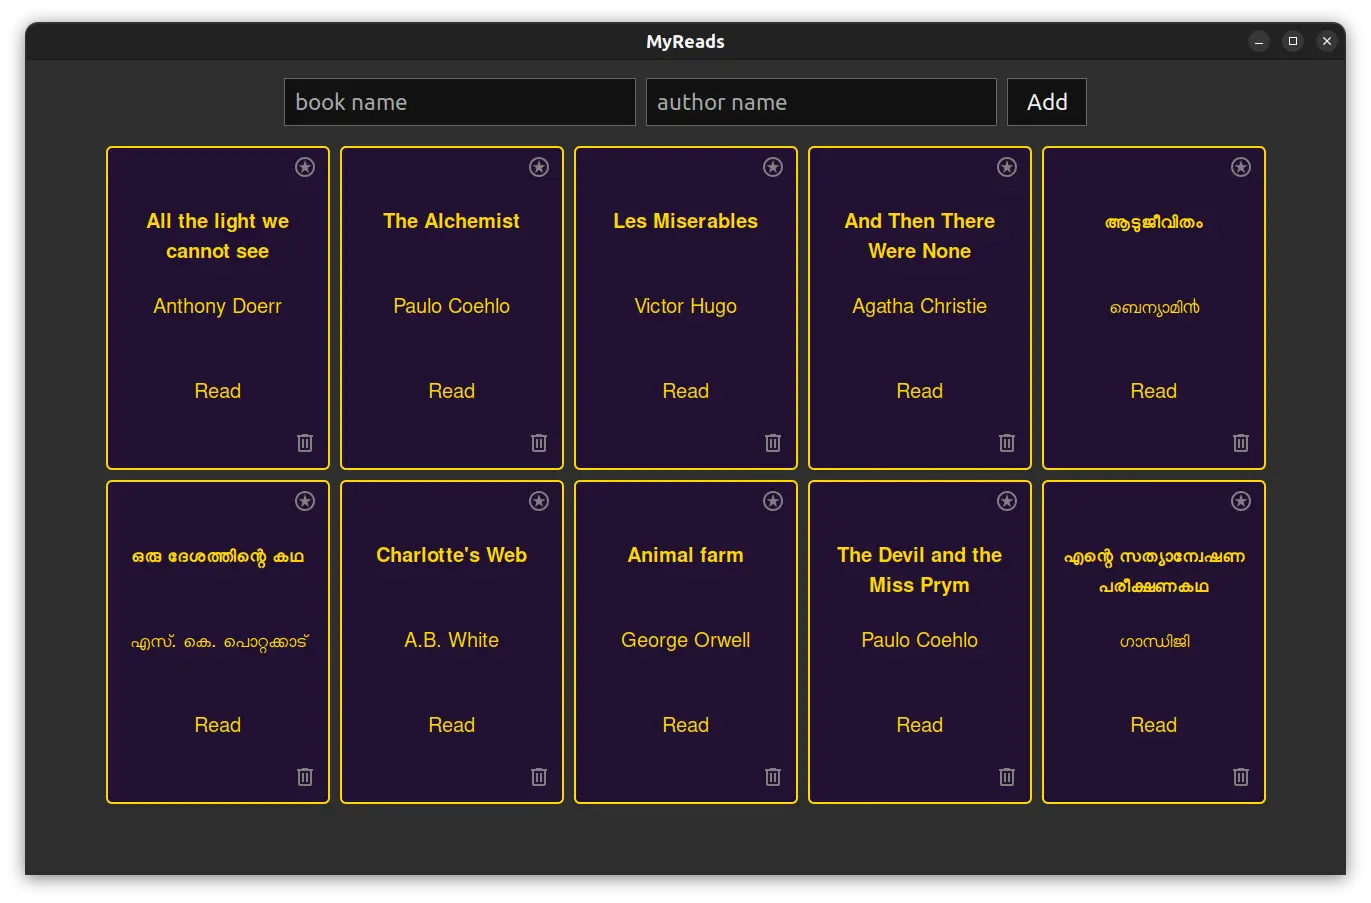
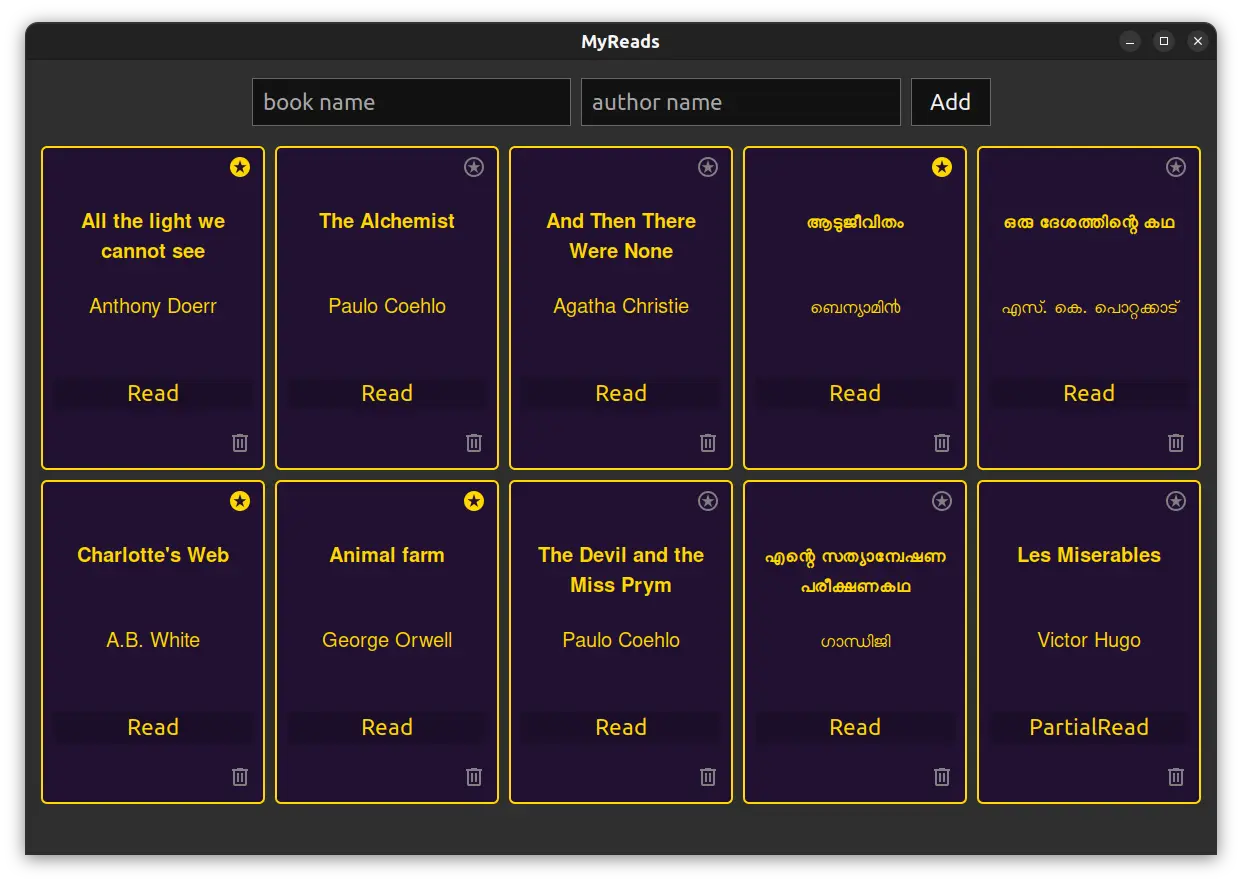
added star, readstate change functions, version changed to 1.0.0

diff --git a/src/lib/Book.svelte b/src/lib/Book.svelte
@@ -14,13 +14,29 @@
     });
     if (result) books_list.update((value) => (value = result));
   }
+
+  async function toggleStarred() {
+    let result = await invoke("change_starred", {
+      book: this.parentElement.children[0].innerText,
+      author: this.parentElement.children[1].innerText,
+    });
+    if (result) books_list.update((value) => (value = result));
+  }
+
+  async function changeReadState() {
+    let result = await invoke("change_read_state", {
+      book: this.parentElement.children[0].innerText,
+      author: this.parentElement.children[1].innerText,
+    });
+    if (result) books_list.update((value) => (value = result));
+  }
 </script>
 
 <div>
   <span class="book">{name}</span>
   <span class="author">{author}</span>
-  <span>{read_state}</span>
-  <button class="star">
+  <button class="read-state" on:click={changeReadState}>{read_state}</button>
+  <button class="star" on:click={toggleStarred}>
     <img src={starred ? "star-filled.svg" : "star.svg"} alt="star" />
   </button>
   <button class="delete" on:click={deleteBook}>
@@ -65,9 +81,16 @@
     bottom: 5px;
     right: 5px;
   }
-  button {
+  .star,
+  .delete {
     background-color: transparent;
     border: none;
     border-radius: 50%;
+  }
+  .read-state {
+    width: 100%;
+    background-color: #0003;
+    border: none;
+    color: gold;
   }
 </style>

diff --git a/src/lib/AddBook.svelte b/src/lib/AddBook.svelte
@@ -10,7 +10,7 @@
       let result = await invoke("add_book_to_db", {
         book: name,
         author: author,
-        readState: "Read",
+        readState: "NotRead",
       });
       if (result) {
         books_list.update((value) => result);
@@ -49,7 +49,8 @@
     width: 80px;
   }
   @media (prefers-color-scheme: dark) {
-    input, button {
+    input,
+    button {
       background-color: #111;
       color: #f2f2f2;
       border: solid #666 1px;

diff --git a/src-tauri/src/database.rs b/src-tauri/src/database.rs
@@ -55,6 +55,7 @@ pub fn add_book(db: &Connection, book: &Book) -> Result<Vec<Book>, rusqlite::Err
         ReadState::Read => "Read",
         ReadState::Reading => "Reading",
         ReadState::NotRead => "NotRead",
+        ReadState::PartialRead => "PartialRead",
     };
     let query =
         format!("INSERT INTO {TABLE_NAME} (book, author, read_state, starred) VALUES (@book, @author, @read_state, @starred)");
@@ -77,6 +78,7 @@ pub fn get_books(db: &Connection) -> Result<Vec<Book>, rusqlite::Error> {
         let read_state = match read_state.as_str() {
             "Read" => ReadState::Read,
             "Reading" => ReadState::Reading,
+            "PartialRead" => ReadState::PartialRead,
             _ => ReadState::NotRead,
         };
         let starred = row.get("starred")?;
@@ -96,52 +98,66 @@ pub fn delete_book(
     statement.execute(named_params! { "@book": book, "@author": author })?;
     get_books(db)
 }
-/*
-fn get_checked_value(
-    db: &Connection,
-    list_name: &str,
-    item_name: &str,
-) -> Result<bool, rusqlite::Error> {
-    let query = format!(
-        "SELECT checked FROM {TABLE_NAME} WHERE item = '{item_name}' AND list = '{list_name}'"
-    );
+
+fn get_starred_value(db: &Connection, book: &str, author: &str) -> Result<bool, rusqlite::Error> {
+    let query = format!("SELECT starred FROM {TABLE_NAME} WHERE book = @book AND author = @author");
     let mut statement = db.prepare(&query)?;
-    let mut rows = statement.query([])?;
+    let mut rows = statement.query(named_params! {"@book": book, "@author": author})?;
     if let Some(row) = rows.next()? {
-        let checked = row.get("checked")?;
-        return Ok(matches!(checked, 0));
+        let starred = row.get("starred")?;
+        return Ok(matches!(starred, 1));
     }
     Err(rusqlite::Error::QueryReturnedNoRows)
 }
 
-pub fn toggle_checked(
+pub fn toggle_starred(
     db: &Connection,
-    list_name: &str,
-    item_name: &str,
-) -> Result<Vec<Item>, rusqlite::Error> {
-    let checked = get_checked_value(db, list_name, item_name)?;
+    book: &str,
+    author: &str,
+) -> Result<Vec<Book>, rusqlite::Error> {
+    let starred = !get_starred_value(db, book, author)?;
+    let query = format!(
+        "UPDATE {TABLE_NAME} SET starred = @starred WHERE book = @book AND author = @author"
+    );
+    let mut statement = db.prepare(&query)?;
+    statement.execute(named_params! { "@starred": starred, "@book": book, "@author": author})?;
+    get_books(db)
+}
+
+fn get_read_state(db: &Connection, book: &str, author: &str) -> Result<ReadState, rusqlite::Error> {
     let query =
-        format!("UPDATE {TABLE_NAME} SET checked = {checked} WHERE item = @item AND list = @list");
+        format!("SELECT read_state FROM {TABLE_NAME} WHERE book = @book AND author = @author");
     let mut statement = db.prepare(&query)?;
-    statement.execute(named_params! { "@item": item_name, "@list": list_name })?;
-    get_list(db, list_name)
-}
-
-pub fn get_list_names(db: &Connection) -> Result<Vec<String>, rusqlite::Error> {
-    let query = format!("SELECT DISTINCT list FROM {TABLE_NAME}");
-    let mut statement = db.prepare(&query)?;
-    let mut rows = statement.query([])?;
-    let mut list = vec![];
-    while let Some(row) = rows.next()? {
-        list.push(row.get("list")?);
+    let mut rows = statement.query(named_params! {"@book": book, "@author": author})?;
+    if let Some(row) = rows.next()? {
+        let read_state: String = row.get("read_state")?;
+        let read_state = match read_state.as_str() {
+            "Read" => ReadState::Read,
+            "Reading" => ReadState::Reading,
+            "PartialRead" => ReadState::PartialRead,
+            _ => ReadState::NotRead,
+        };
+        return Ok(read_state);
     }
-    Ok(list)
+    Err(rusqlite::Error::QueryReturnedNoRows)
 }
 
-pub fn delete_list(db: &Connection, list_name: &str) -> Result<Vec<String>, rusqlite::Error> {
-    let query = format!("DELETE FROM {TABLE_NAME} WHERE list = @list");
+pub fn change_read_state(
+    db: &Connection,
+    book: &str,
+    author: &str,
+) -> Result<Vec<Book>, rusqlite::Error> {
+    let read_state = match get_read_state(db, book, author)? {
+        ReadState::Read => "Reading",
+        ReadState::Reading => "NotRead",
+        ReadState::NotRead => "PartialRead",
+        ReadState::PartialRead => "Read",
+    };
+    let query = format!(
+        "UPDATE {TABLE_NAME} SET read_state = @read_state WHERE book = @book AND author = @author"
+    );
     let mut statement = db.prepare(&query)?;
-    statement.execute(named_params! {"@list": list_name})?;
-    get_list_names(db)
+    statement
+        .execute(named_params! { "@read_state": read_state, "@book": book, "@author": author})?;
+    get_books(db)
 }
-*/

diff --git a/src-tauri/src/main.rs b/src-tauri/src/main.rs
@@ -17,19 +17,18 @@ fn add_book_to_db(
     author: String,
     read_state: ReadState,
 ) -> Option<Vec<Book>> {
-        match app_handle.db(|db| database::add_book(db, &Book::from(book, author, read_state, false)))
+    if let Ok(books) =
+        app_handle.db(|db| database::add_book(db, &Book::from(book, author, read_state, false)))
     {
-        Ok(books) => return Some(books),
-        Err(e) => println!("{e}"),
+        return Some(books);
     }
     None
 }
 
 #[tauri::command]
 fn get_books(app_handle: AppHandle) -> Option<Vec<Book>> {
-    match app_handle.db(database::get_books) {
-        Ok(books) => return Some(books),
-        Err(e) => println!("{e}"),
+    if let Ok(books) = app_handle.db(database::get_books) {
+        return Some(books);
     }
     None
 }
@@ -37,6 +36,22 @@ fn get_books(app_handle: AppHandle) -> Option<Vec<Book>> {
 #[tauri::command]
 fn delete_book(app_handle: AppHandle, book: String, author: String) -> Option<Vec<Book>> {
     if let Ok(books) = app_handle.db(|db| database::delete_book(db, &book, &author)) {
+        return Some(books);
+    }
+    None
+}
+
+#[tauri::command]
+fn change_starred(app_handle: AppHandle, book: String, author: String) -> Option<Vec<Book>> {
+    if let Ok(books) = app_handle.db(|db| database::toggle_starred(db, &book, &author)) {
+        return Some(books);
+    }
+    None
+}
+
+#[tauri::command]
+fn change_read_state(app_handle: AppHandle, book: String, author: String) -> Option<Vec<Book>> {
+    if let Ok(books) = app_handle.db(|db| database::change_read_state(db, &book, &author)) {
         return Some(books);
     }
     None
@@ -58,7 +73,9 @@ fn main() {
         .invoke_handler(tauri::generate_handler![
             add_book_to_db,
             delete_book,
-            get_books
+            get_books,
+            change_starred,
+            change_read_state,
         ])
         .run(tauri::generate_context!())
         .expect("error while running tauri application");

diff --git a/src-tauri/src/book.rs b/src-tauri/src/book.rs
@@ -13,6 +13,7 @@ pub enum ReadState {
     Read,
     NotRead,
     Reading,
+    PartialRead,
 }
 
 impl Book {

diff --git a/docs/README.md b/docs/README.md
@@ -2,6 +2,6 @@
 
 Organize books into a reading list
 
-It's in developing stage and not yet completed.
+[![Release](https://github.com/magicisyou/myreads/actions/workflows/release.yml/badge.svg)](https://github.com/magicisyou/myreads/actions/workflows/release.yml)
 
 ![MyReads](/docs/screenshot.webp)
